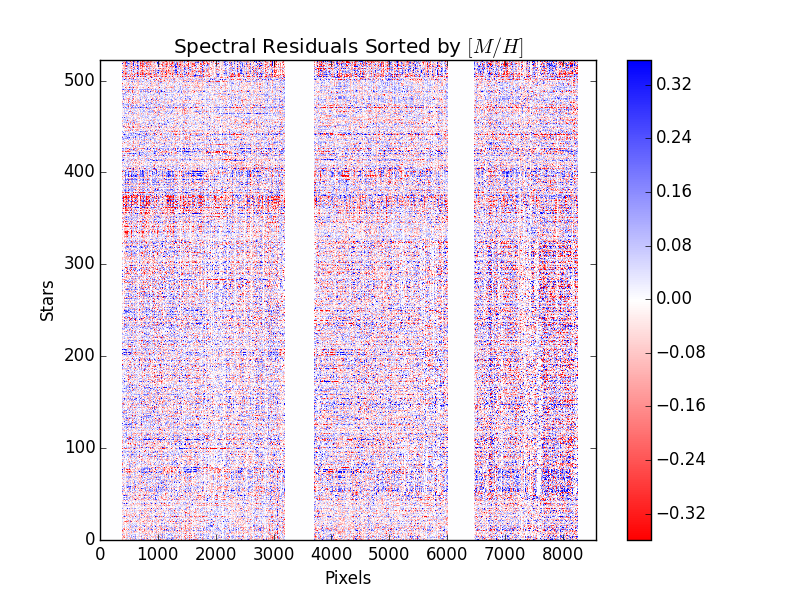
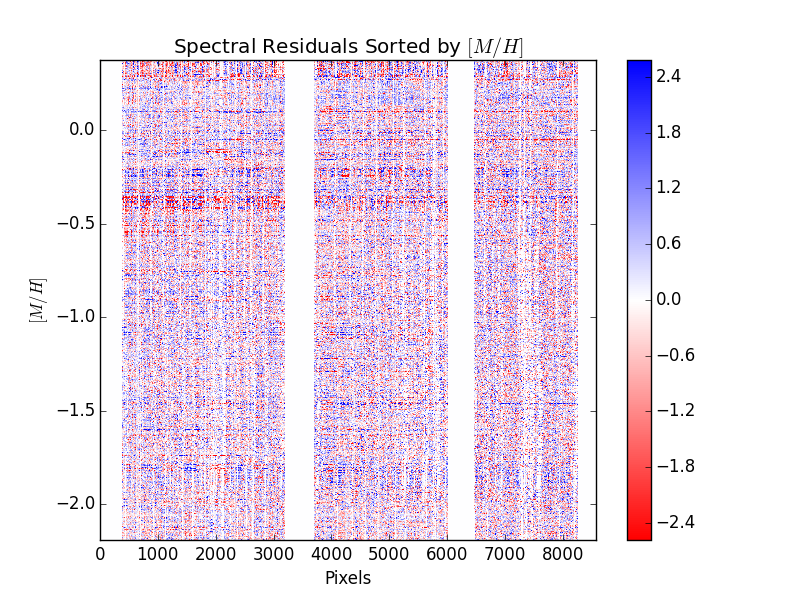
physical y-axis

diff --git a/Code/Version1.2/spectral_model.py b/Code/Version1.2/spectral_model.py
@@ -101,10 +101,11 @@ def residuals(cannon_set, test_set, model):
         #lim = np.maximum(np.abs(sorted_res.max()), np.abs(sorted_res.min()))
         plt.imshow(sorted_res, cmap=plt.cm.bwr_r,
                 interpolation="nearest", vmin=mu-3*sigma, vmax=mu+3*sigma,
-                aspect='auto',origin='lower')
+                aspect='auto',origin='lower', 
+                extent=[0, len(scatters), min(label_vals), max(label_vals)])
         plt.title("Spectral Residuals Sorted by " + r"$%s$" %label_name)
         plt.xlabel("Pixels")
-        plt.ylabel("Stars")
+        plt.ylabel(r"$%s$" %label_name)
         plt.colorbar()
         filename = "residuals_sorted_by_label_%s.png" %i
         plt.savefig(filename)

diff --git a/Code/Version1.2/cannon2_infer_labels.py b/Code/Version1.2/cannon2_infer_labels.py
@@ -17,7 +17,7 @@ def get_lvec(labels):
             element = labels[i]*labels[j]
             lvec.append(element)
     lvec = np.array(lvec)
-    return x
+    return lvec
 
 def func(coeffs, *labels):
     lvec = get_lvec(list(labels))
